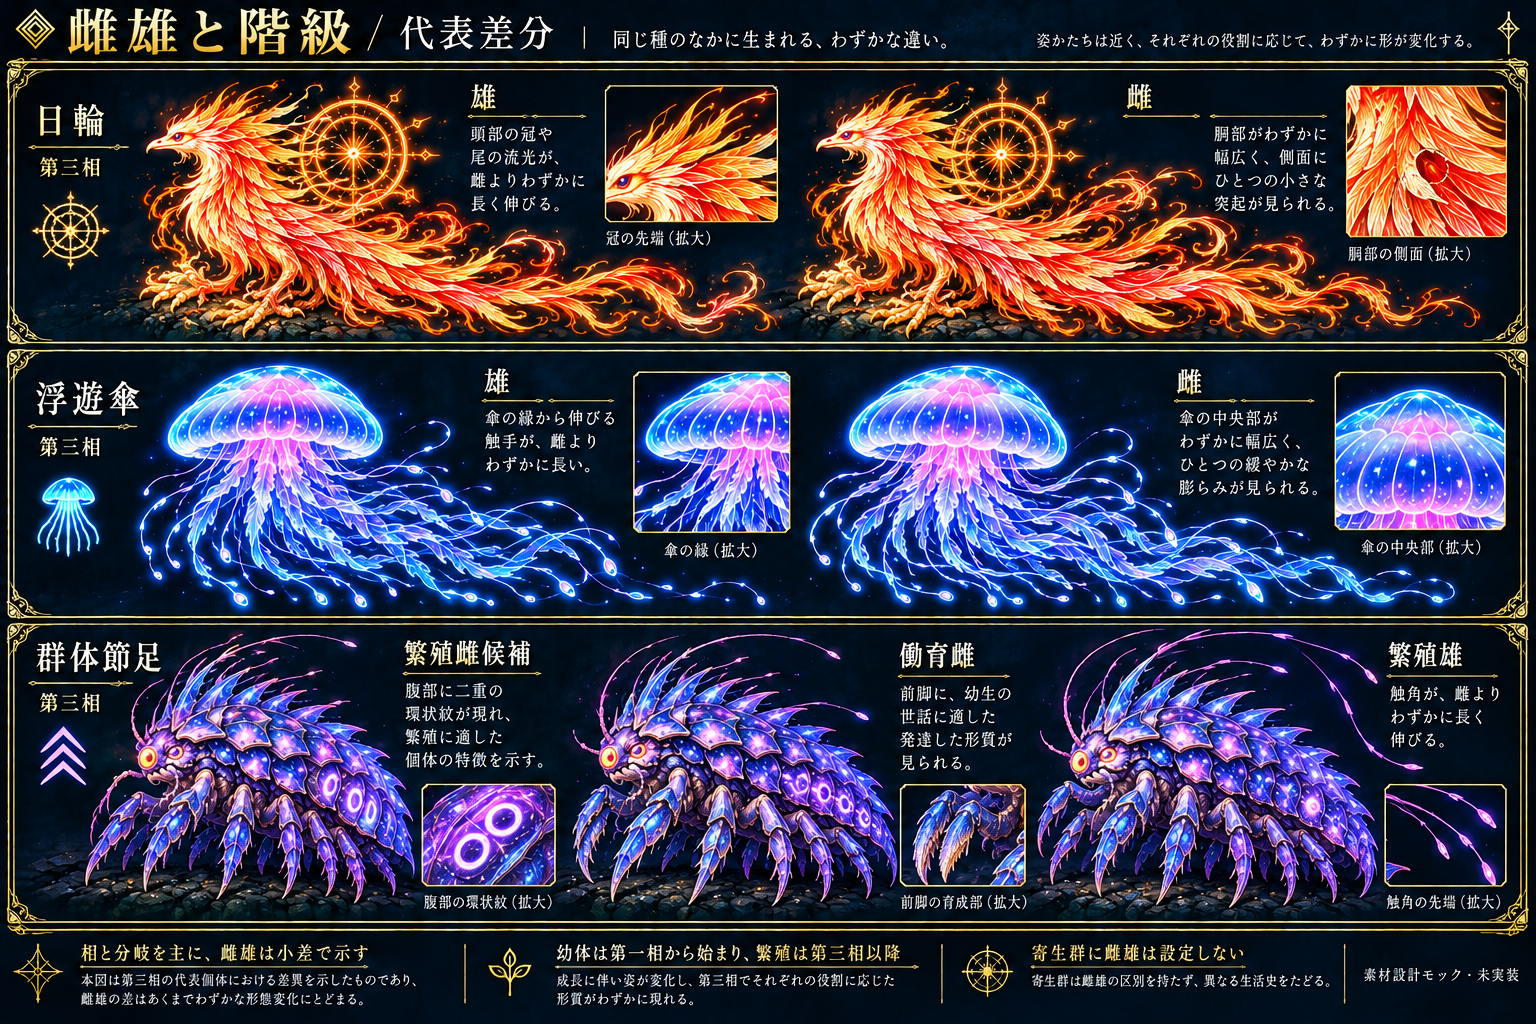
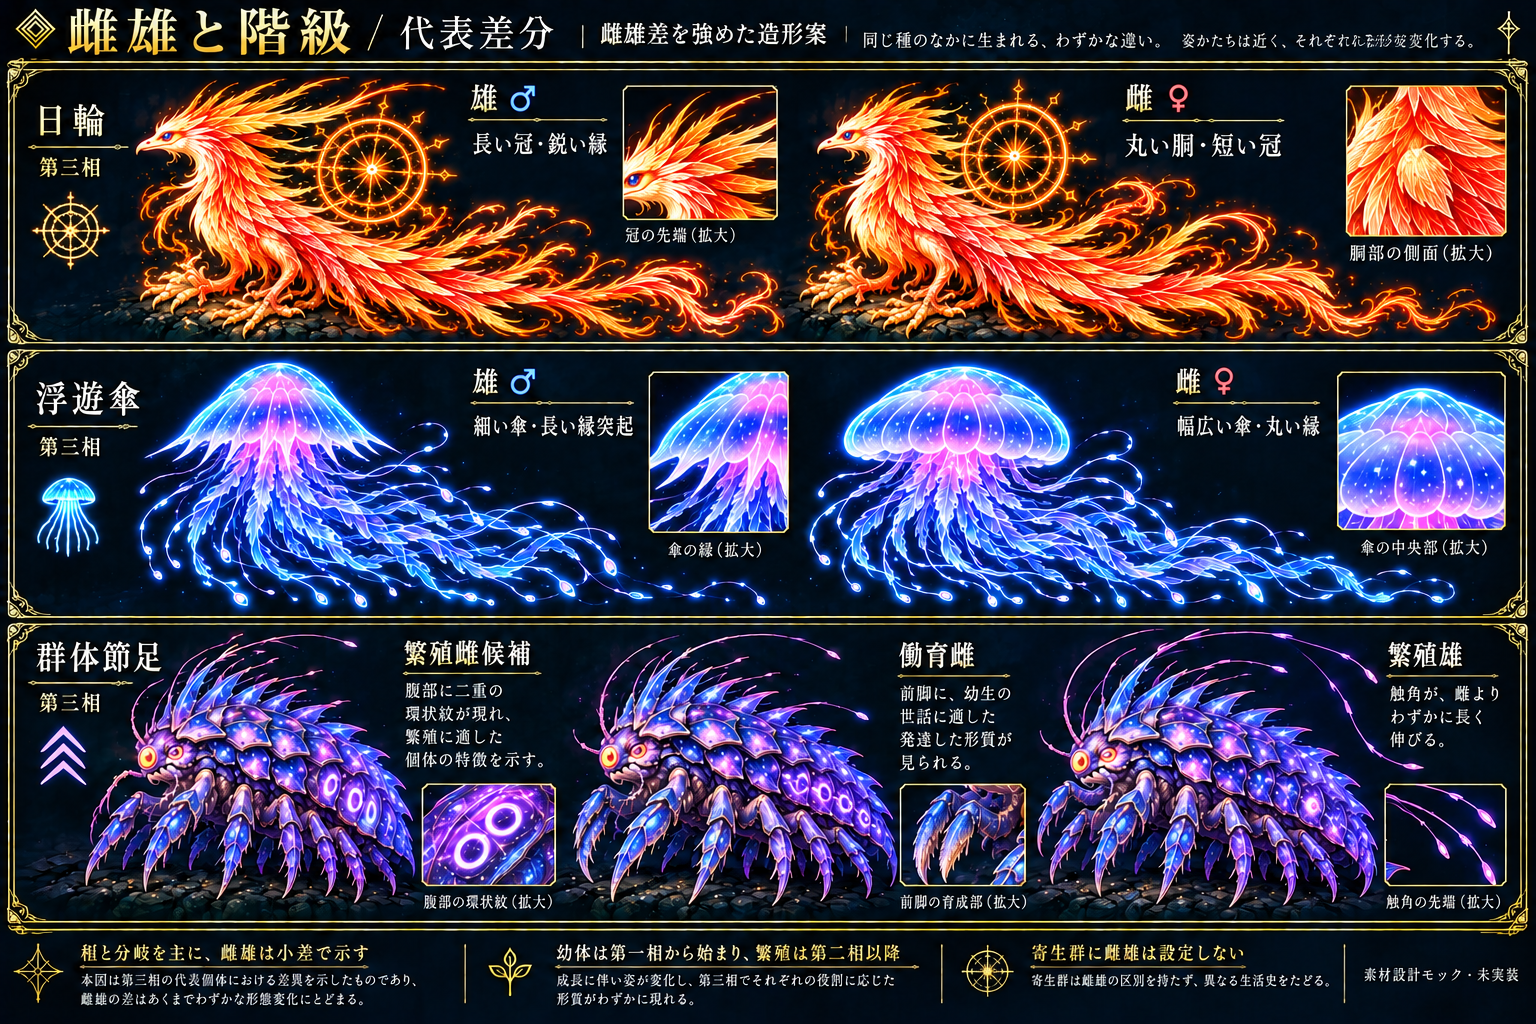
docs: strengthen representative sex silhouettes for visual review [skip ci]

diff --git a/lifegame-desktop/design/branch-mock-v1/README.md b/lifegame-desktop/design/branch-mock-v1/README.md
@@ -29,7 +29,11 @@ IVでは、効率採集は実備蓄E、蓄積回復は実HP回復、広域探索
 
 ## 雌雄・階級と成長を混同しない
 
-第三相・同じ枝で比較する。雌は腹部幅+5%と輪郭の小突起一つ、雄は触角または縁突起+5%。系統の色や基本形は共通にし、色だけで区別しない。小差なので拡大注記を併用し、遠景で無理に描かず選択資料でも確認できる設計とする。
+第三相・同じ枝で比較する。既存の表示仕様は雌の腹部幅+5%と輪郭の小突起一つ、雄の触角または縁突起+5%だが、この小差では分かりづらいという利用者の指摘を受け、比較画像では差を強めた造形案を示す。
+
+日輪の雄は長く鋭い冠と縁の突起、雌は丸みのある胴と短い冠。浮遊傘の雄は細めの傘と長い縁突起、雌は幅広く丸い傘と短い縁を使う。作画指示の目安は雄の冠/縁突起を約20%強調、雌の胴/傘を約15%広げることで、画像の計測済み比率や確定した能力差ではない。基本の系統色・身体構成・相・枝は共通にし、色だけで区別しない。遠景では無理に細部を描かず、選択資料でも確認できる設計とする。
+
+これは外見の比較案であり、core・A/B正本・製品コードは変更しない。採用時には正本の表示仕様と数値を揃える。繁殖条件や能力への性差は追加しない。
 
 群体節足は繁殖雌候補の腹部二重輪、働育雌の前肢の育児斑、繁殖雄の長めの触角を比較する。階級は出生時の母体条件と投資で決まり、後から情報で変更しない。各図は一個体であり、複数個体の合体ではない。
 

diff --git a/lifegame-desktop/valis/summary/lifegame-desktop.summary.md b/lifegame-desktop/valis/summary/lifegame-desktop.summary.md
@@ -10,7 +10,7 @@ current_trial: design/ecosystem-next/README.md（生態調整は未採用。wate
 current_trial_result: operations/evidence/ecosystem-next/report.md
 current_image: operations/evidence/observation-v2.3/detail.png（同じ90ターン世界の遠景はoverview.png）
 visual_reference: design/specification/ecosystem-overview-mock.png + design/specification/habitat-overview-mock.png
-current_visual_review: design/asset-mock-v1/README.md（8枚とPDF） + design/branch-mock-v1/README.md（代表2系統の3→6分岐、雌雄・階級の3枚。基準は画面案v4。素材設計・製品未反映）
+current_visual_review: design/asset-mock-v1/README.md（8枚とPDF） + design/branch-mock-v1/README.md（代表2系統の3→6分岐、雌雄・階級の3枚。雌雄差を強めた造形案に修正。基準は画面案v4。素材設計・製品未反映）
 
 現在の状態と必要な参照だけを記載する。履歴・過去の作業ログは保持しない。coreはプロジェクト内正本を使用し、変更しない。
 

diff --git a/lifegame-desktop/valis/nodes/C/C8.1.md b/lifegame-desktop/valis/nodes/C/C8.1.md
@@ -106,3 +106,6 @@ C8.1:（B5.3 / 盤面と個体の描画・確定モーション）［草案］
 ## 代表分岐・雌雄の造形資料
 
 `design/branch-mock-v1/README.md`を参照。日輪・浮遊傘は共通I/II、IIIの3枝、IVの6枝を具体化し、代表雌雄と群体節足の階級を別紙で比較する。造形資料のみで製品未反映、能力・分岐条件・承認状態は変更しない。画像の情景説明から新しい栄養源や射程を定義しない。
+
+雌雄差の造形見直し:
+	比較図03-sex-caste.pngの雌雄部分を、雄の長い冠/縁突起と雌の丸い胴/傘で識別する案へ修正。群体節足の階級の造形方針と分岐図は維持。既存5%表示仕様より差を強めた検討案で、A/B正本・製品コード・能力・繁殖条件は変更しない。採用時の正本への接続は未実施。
